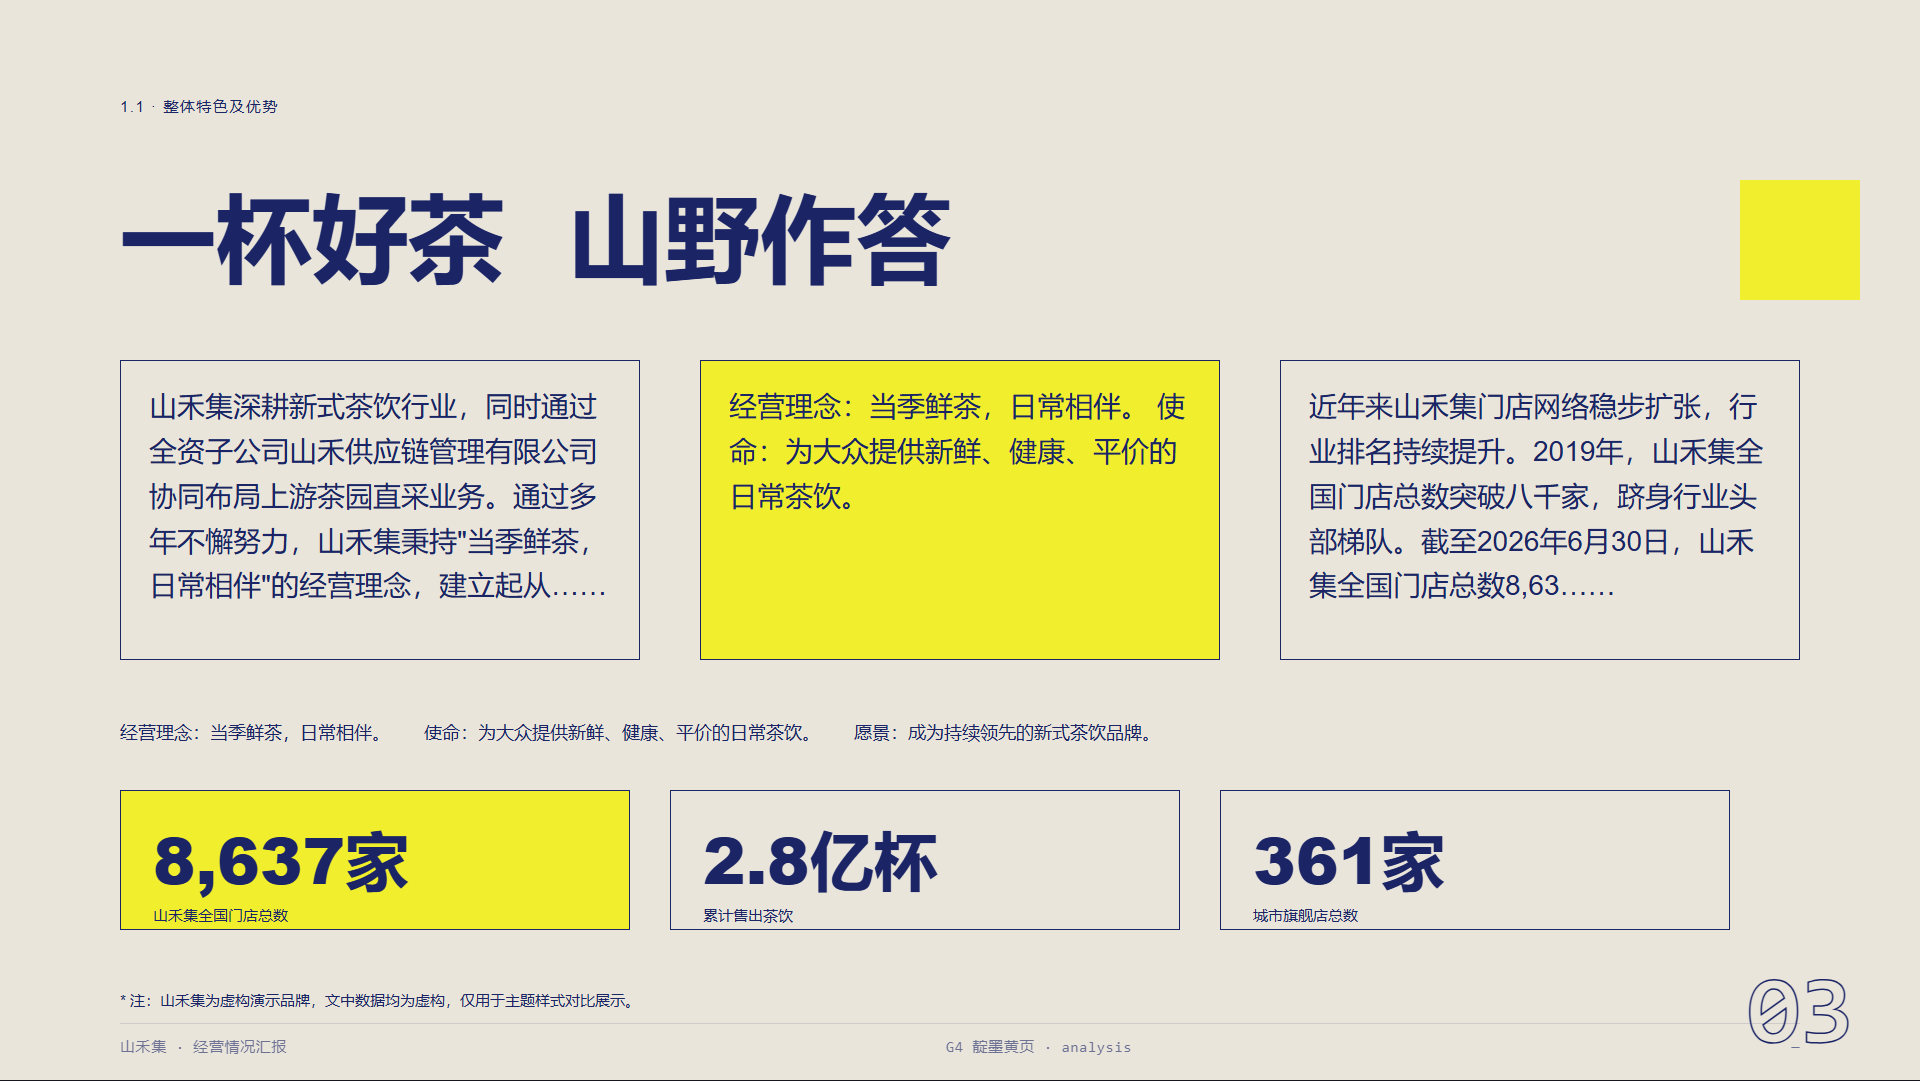
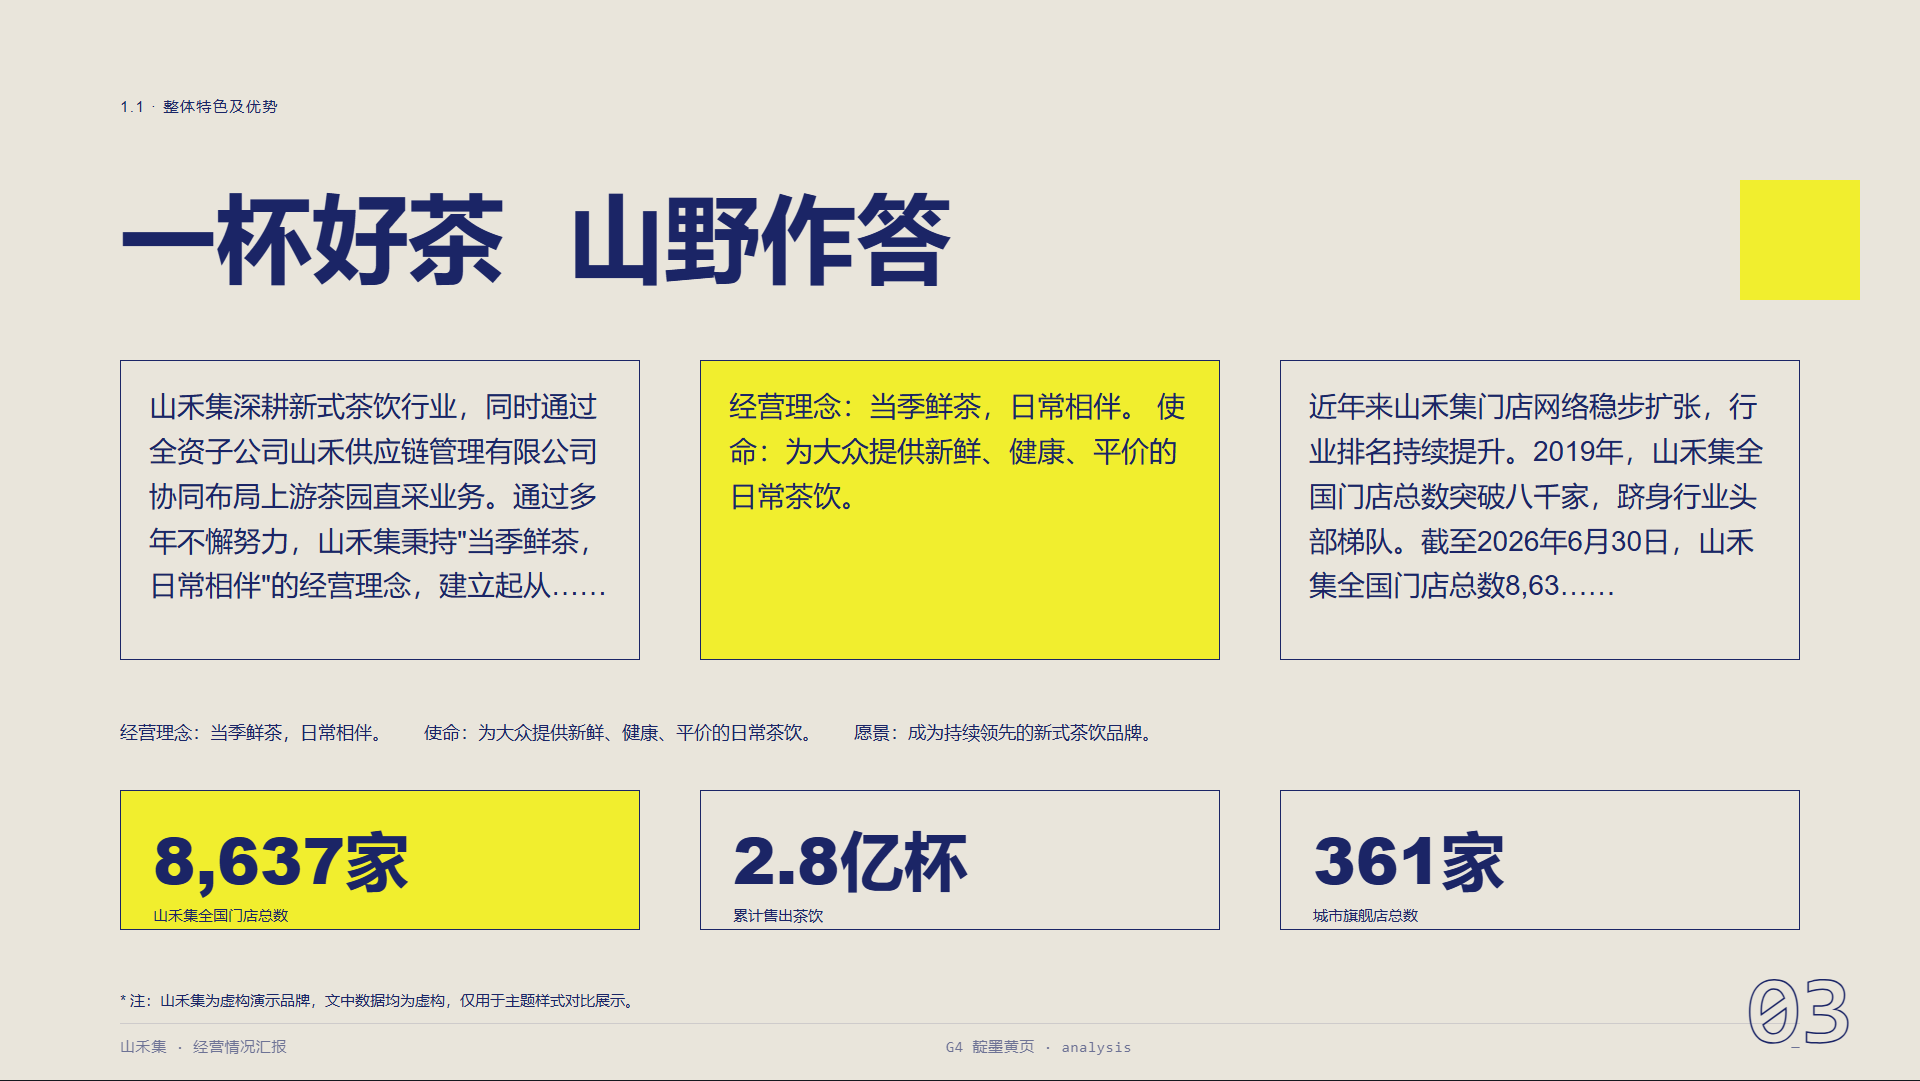
phase6-batch3: 根因修复2——页面级对齐系统4条硬规则 + build.js 配套修复
技能文档根因修复（components.md §13 新增4条页面级对齐硬规则）：
- 规则6 跨组列对齐：同页纵向同列的容器组必须共享x/w
  (G4 analysis: top blocks w=520 gap=60 vs bottom KPI w=510 gap=40 → 统一)
- 规则7 容器与线条对齐：分隔线起止点必须与邻近容器边缘精确对齐
  (G4 claim: divider w=1000 超出左侧文字列 → 收到 w=760 对齐文字列)
- 规则8 跨组垂直对齐：同水平条带内容器组共享顶部y坐标
  (G4 data: main KPI y=340 vs aux KPI y=380 → 统一 y=340)
- 规则9 文字起点对齐：同x列上容器内外文字起点对齐
  (G5 claim: body x=1020 vs KPI text x=1052 → body 起点收到 1052)

根因定位：原§13只有同组对齐(规则5)，缺跨组/页面级对齐——
组间各自为政、坐标手算，产生累积偏移。

审计结果：16页×12项=192检查全绿

Changed region(s): [[0.3125, 0.7327, 0.5, 0.8548], [0.6562, 0.7632, 0.7812, 0.8548]]

diff --git a/docs/progress/phase6-batch3/sampler.html b/docs/progress/phase6-batch3/sampler.html
@@ -104,7 +104,7 @@ html,body{background:#15181e;font-family:"PingFang SC","Noto Sans SC","Microsoft
 <div class="t-meta" style="position:absolute;left:120px;top:60px;letter-spacing:.1em">1.1 · 整体特色及优势</div>
 <div class="t-display" style="position:absolute;left:120px;top:160px;width:1680px;height:180px;font-weight:900;color:var(--accent-on);font-size:max(var(--t-display),128px);white-space:nowrap">从茶园到门店</div>
 <div class="t-body" style="position:absolute;left:120px;top:350px;width:1000px;height:80px;color:var(--accent-on)">一杯好茶的答案，写在每一片叶子的来路上。</div>
-<div style="position:absolute;left:120px;top:540px;width:1000px;height:2px;background:var(--ink);height:1.5px" data-editable-skip></div>
+<div style="position:absolute;left:120px;top:540px;width:760px;height:2px;background:var(--ink);height:1.5px" data-editable-skip></div>
 <div class="t-body" style="position:absolute;left:120px;top:570px;width:760px;height:200px">山禾集深耕新式茶饮行业，同时通过全资子公司山禾供应链管理有限公司协同布局上游茶园直采业务。通过多年不懈努力，山禾集秉持"当季鲜茶，日常相伴"的经营理念，建立起从……</div>
 <div style="position:absolute;left:1100px;top:490px;width:560px;height:170px;border:1.5px solid var(--ink);padding:28px 32px;background:var(--accent)">
         <div class="t-heading" style="font-weight:800;color:var(--accent-on)">8,637家</div>
@@ -138,15 +138,15 @@ html,body{background:#15181e;font-family:"PingFang SC","Noto Sans SC","Microsoft
         <div class="t-body">近年来山禾集门店网络稳步扩张，行业排名持续提升。2019年，山禾集全国门店总数突破八千家，跻身行业头部梯队。截至2026年6月30日，山禾集全国门店总数8,63……</div>
       </div>
 <div style="position:absolute;left:120px;top:720px;width:1080px;height:30px"><span class="t-caption" style="display:inline-block;margin-right:34px">经营理念：当季鲜茶，日常相伴。</span><span class="t-caption" style="display:inline-block;margin-right:34px">使命：为大众提供新鲜、健康、平价的日常茶饮。</span><span class="t-caption" style="display:inline-block;margin-right:34px">愿景：成为持续领先的新式茶饮品牌。</span></div>
-<div style="position:absolute;left:120px;top:790px;width:510px;height:140px;border:1.5px solid var(--ink);padding:28px 32px;background:var(--accent);color:var(--accent-on)">
+<div style="position:absolute;left:120px;top:790px;width:520px;height:140px;border:1.5px solid var(--ink);padding:28px 32px;background:var(--accent);color:var(--accent-on)">
         <div class="t-heading" style="font-weight:800">8,637家</div>
         <div class="t-meta" style="margin-top:6px">山禾集全国门店总数</div>
       </div>
-<div style="position:absolute;left:670px;top:790px;width:510px;height:140px;border:1.5px solid var(--ink);padding:28px 32px;">
+<div style="position:absolute;left:700px;top:790px;width:520px;height:140px;border:1.5px solid var(--ink);padding:28px 32px;">
         <div class="t-heading" style="font-weight:800">2.8亿杯</div>
         <div class="t-meta" style="margin-top:6px">累计售出茶饮</div>
       </div>
-<div style="position:absolute;left:1220px;top:790px;width:510px;height:140px;border:1.5px solid var(--ink);padding:28px 32px;">
+<div style="position:absolute;left:1280px;top:790px;width:520px;height:140px;border:1.5px solid var(--ink);padding:28px 32px;">
         <div class="t-heading" style="font-weight:800">361家</div>
         <div class="t-meta" style="margin-top:6px">城市旗舰店总数</div>
       </div>
@@ -166,11 +166,11 @@ html,body{background:#15181e;font-family:"PingFang SC","Noto Sans SC","Microsoft
       <div class="t-subhead" style="color:var(--accent-on);margin-top:16px;font-weight:700">山禾集全国门店总数</div>
       <div class="t-meta" style="color:var(--accent-on);margin-top:8px;opacity:.8">行业前列</div>
     </div>
-<div style="position:absolute;left:1240px;top:380px;width:560px;height:190px;border:1.5px solid var(--ink);padding:28px 32px;background:var(--paper-tint)">
+<div style="position:absolute;left:1240px;top:340px;width:560px;height:190px;border:1.5px solid var(--ink);padding:28px 32px;background:var(--paper-tint)">
         <div class="t-heading" style="font-weight:800">2.8亿杯</div>
         <div class="t-meta" style="margin-top:8px">累计售出茶饮</div>
       </div>
-<div style="position:absolute;left:1240px;top:590px;width:560px;height:190px;border:1.5px solid var(--ink);padding:28px 32px;background:var(--paper-tint)">
+<div style="position:absolute;left:1240px;top:550px;width:560px;height:190px;border:1.5px solid var(--ink);padding:28px 32px;background:var(--paper-tint)">
         <div class="t-heading" style="font-weight:800">361家</div>
         <div class="t-meta" style="margin-top:8px">城市旗舰店总数</div>
       </div>
@@ -201,7 +201,7 @@ html,body{background:#15181e;font-family:"PingFang SC","Noto Sans SC","Microsoft
 <span class="mt-tri-tag" style="position:absolute;left:120px;top:80px" data-editable-skip>VOL.07 / NO.128</span>
 <div class="t-display" style="position:absolute;left:120px;top:220px;width:760px;height:180px;font-weight:700;color:var(--accent);font-size:max(var(--t-display),112px);white-space:nowrap">从茶园到门店</div>
 <div class="t-body" style="position:absolute;left:120px;top:420px;width:760px;height:120px;color:var(--accent);opacity:.9">一杯好茶的答案，写在每一片叶子的来路上。</div>
-<div class="t-body" style="position:absolute;left:1020px;top:220px;width:760px;height:200px;color:var(--ink)">山禾集深耕新式茶饮行业，同时通过全资子公司山禾供应链管理有限公司协同布局上游茶园直采业务。通过多年不懈努力，山禾集秉持"当季鲜茶，日常相伴"的经营理念，建立起从茶园到门店的全链路品控流程，持续为消费者……</div>
+<div class="t-body" style="position:absolute;left:1052px;top:220px;width:728px;height:200px;color:var(--ink)">山禾集深耕新式茶饮行业，同时通过全资子公司山禾供应链管理有限公司协同布局上游茶园直采业务。通过多年不懈努力，山禾集秉持"当季鲜茶，日常相伴"的经营理念，建立起从茶园到门店的全链路品控流程，持续为消费者……</div>
 <div style="position:absolute;left:1020px;top:420px;width:760px;height:170px;background:var(--paper);color:var(--ink);padding:28px 32px">
         <div class="t-heading" style="font-weight:600">8,637家</div>
         <div class="t-meta" style="margin-top:6px">山禾集全国门店总数</div>

diff --git a/docs/progress/phase6-batch3/build.js b/docs/progress/phase6-batch3/build.js
@@ -129,9 +129,11 @@ function G4(role) {
     h.push(`<div class="t-display" style="${pos(M, 160, CW, 180)};font-weight:900;color:var(--accent-on);font-size:max(var(--t-display),128px);white-space:nowrap">${esc(D.claim)}</div>`);
     h.push(`<div class="t-body" style="${pos(M, 350, 1000, 80)};color:var(--accent-on)">${esc(D.claimNote)}</div>`);
     // 下半：纸底上的说明 + KPI
-    h.push(`<div style="${pos(M, 540, 1000, 2)};background:var(--ink);height:1.5px" data-editable-skip></div>`);
+    // 分隔线与左侧文字列对齐（x=M, w=760 → r=880），不延伸到右侧 KPI 区域（规则7）
+    h.push(`<div style="${pos(M, 540, 760, 2)};background:var(--ink);height:1.5px" data-editable-skip></div>`);
     h.push(`<div class="t-body" style="${pos(M, 570, 760, 200)}">${esc(D.p1.slice(0, 80))}……</div>`);
     // KPI：靛蓝线框纵向排列（padding ≥28px for heading 档，容器高度需容纳 heading+meta）
+    // KPI 容器左边缘 = 1100，是独立右列，不与左侧文字列共享 x（规则9 例外：不同列）
     D.kpis.forEach((k, i) => {
       const y = 490 + i * 175;
       const isFocus = i === 0;
@@ -148,10 +150,12 @@ function G4(role) {
     h.push(`<div class="t-display" style="${pos(M, 180, CW, 140)};font-weight:900;white-space:nowrap">${ttl}</div>`);
     h.push(wedge(1740, 180, 120, 120));
     // 3 个靛蓝线框分区，至多一个黄面焦点
+    // 列参数统一：col_w=520, col_gap=60（规则6：同页跨组列对齐）
+    const CW4 = 520, CG4 = 60;
     const blocks = [
-      { x: M, y: 360, w: 520, h: 300, focus: false, text: D.p1.slice(0, 80) + '……' },
-      { x: 700, y: 360, w: 520, h: 300, focus: true, text: D.creed[0] + ' ' + D.creed[1] },
-      { x: 1280, y: 360, w: 520, h: 300, focus: false, text: D.p2.slice(0, 80) + '……' }
+      { x: M, y: 360, w: CW4, h: 300, focus: false, text: D.p1.slice(0, 80) + '……' },
+      { x: M + CW4 + CG4, y: 360, w: CW4, h: 300, focus: true, text: D.creed[0] + ' ' + D.creed[1] },
+      { x: M + 2 * (CW4 + CG4), y: 360, w: CW4, h: 300, focus: false, text: D.p2.slice(0, 80) + '……' }
     ];
     blocks.forEach(b => {
       h.push(`<div style="${pos(b.x, b.y, b.w, b.h)};border:1.5px solid var(--ink);padding:24px 28px;${b.focus ? 'background:var(--accent);color:var(--accent-on)' : 'background:var(--paper)'}">
@@ -160,10 +164,10 @@ function G4(role) {
     });
     // 底部 creed 行
     h.push(`<div style="${pos(M, 720, 1080, 30)}">${D.creed.map(c => `<span class="t-caption" style="display:inline-block;margin-right:34px">${esc(c)}</span>`).join('')}</div>`);
-    // 底部 KPI 行：靛蓝线框（padding ≥28px for heading 档）
+    // 底部 KPI 行：靛蓝线框（与顶部 blocks 共享列参数 — 规则6 跨组列对齐）
     D.kpis.forEach((k, i) => {
-      const x = M + i * 550;
-      h.push(`<div style="${pos(x, 790, 510, 140)};border:1.5px solid var(--ink);padding:28px 32px;${i === 0 ? 'background:var(--accent);color:var(--accent-on)' : ''}">
+      const x = M + i * (CW4 + CG4);
+      h.push(`<div style="${pos(x, 790, CW4, 140)};border:1.5px solid var(--ink);padding:28px 32px;${i === 0 ? 'background:var(--accent);color:var(--accent-on)' : ''}">
         <div class="t-heading" style="font-weight:800">${esc(k.num)}</div>
         <div class="t-meta" style="margin-top:6px">${esc(k.cap)}</div>
       </div>`);
@@ -183,8 +187,9 @@ function G4(role) {
       <div class="t-meta" style="color:var(--accent-on);margin-top:8px;opacity:.8">${esc(D.kpis[0].tag)}</div>
     </div>`);
     // 辅助 KPI：靛蓝线框纵向（padding ≥28px for heading 档）
+    // 顶部与主 KPI 对齐（规则8：同水平条带跨组垂直对齐，y=340）
     D.kpis.slice(1).forEach((k, i) => {
-      const y = 380 + i * 210;
+      const y = 340 + i * 210;
       h.push(`<div style="${pos(1240, y, 560, 190)};border:1.5px solid var(--ink);padding:28px 32px;background:var(--paper-tint)">
         <div class="t-heading" style="font-weight:800">${esc(k.num)}</div>
         <div class="t-meta" style="margin-top:8px">${esc(k.cap)}</div>
@@ -232,7 +237,9 @@ function G5(role) {
     h.push(`<div class="t-display" style="${pos(M, 220, 760, 180)};font-weight:700;color:var(--accent);font-size:max(var(--t-display),112px);white-space:nowrap">${esc(D.claim)}</div>`);
     h.push(`<div class="t-body" style="${pos(M, 420, 760, 120)};color:var(--accent);opacity:.9">${esc(D.claimNote)}</div>`);
     // 右侧：苔绿底暗夜蓝字——说明 + KPI
-    h.push(`<div class="t-body" style="${pos(1020, 220, 760, 200)};color:var(--ink)">${esc(D.p1.slice(0, 100))}……</div>`);
+    // 文字起点与 KPI 容器内文字起点对齐（规则9：同列文字起点对齐）
+    // KPI 容器 x=1020 + padding-left 32 = 文字起点 1052；右侧 body 也从 1052 起
+    h.push(`<div class="t-body" style="${pos(1052, 220, 728, 200)};color:var(--ink)">${esc(D.p1.slice(0, 100))}……</div>`);
     // KPI 容器（heading 档 padding ≥ 28px，容器高度需容纳 heading+meta）
     D.kpis.forEach((k, i) => {
       const y = 420 + i * 175;
@@ -248,10 +255,12 @@ function G5(role) {
     h.push(`<div class="t-display" style="${pos(M, 180, CW, 140)};font-weight:700;white-space:nowrap">${ttl}</div>`);
     h.push(tag(1500, 96, 'NO.128'));
     // 3 块三色反转面（赭石底/苔绿底/暗夜蓝底 轮转）
+    // 列参数统一：col_w=520, col_gap=60（规则6：同页跨组列对齐）
+    const CW5 = 520, CG5 = 60;
     const blocks = [
-      { x: M, y: 360, w: 520, h: 320, bg: 'var(--paper)', fg: 'var(--ink)', text: D.p1.slice(0, 80) + '……' },
-      { x: 700, y: 360, w: 520, h: 320, bg: 'var(--accent)', fg: 'var(--ink)', text: D.creed[0] + ' ' + D.creed[1] },
-      { x: 1280, y: 360, w: 520, h: 320, bg: 'var(--ink)', fg: 'var(--accent)', text: D.p2.slice(0, 80) + '……' }
+      { x: M, y: 360, w: CW5, h: 320, bg: 'var(--paper)', fg: 'var(--ink)', text: D.p1.slice(0, 80) + '……' },
+      { x: M + CW5 + CG5, y: 360, w: CW5, h: 320, bg: 'var(--accent)', fg: 'var(--ink)', text: D.creed[0] + ' ' + D.creed[1] },
+      { x: M + 2 * (CW5 + CG5), y: 360, w: CW5, h: 320, bg: 'var(--ink)', fg: 'var(--accent)', text: D.p2.slice(0, 80) + '……' }
     ];
     blocks.forEach(b => {
       h.push(`<div style="${pos(b.x, b.y, b.w, b.h)};background:${b.bg};color:${b.fg};padding:24px 28px">

diff --git a/skills/SlideForge/references/components.md b/skills/SlideForge/references/components.md
@@ -363,6 +363,33 @@ card 皮肤与一切底色块容器（Callout 底、标注旗标底、KPI 塔身
    - **内边距一致**：同组容器的 padding 必须一致（§12 硬规则 9 的同组投影），确保文字起始位置对齐。
    - 例外：主题 G10 `signature_operator` 显式声明了错落/阶梯作为签名手段时，基线可以不齐——但错落规则每页一致，不是随机偏移。
 
+**页面级对齐系统**（K2 期实测补入 · 硬规则）：
+
+同组一致性（上面 1–5 条）管的是**一个容器组内部**的秩序。但一页内通常有**多个容器组**（如标题块 + 正文块 + KPI 排 + 脚注行）——组间若各自为政、坐标手算，必然产生累积偏移。以下四条管的是**跨组的页面级对齐**：
+
+6. **跨组列对齐【硬规则】**：同一页内**纵向同列**的容器组必须共享相同的 x 坐标和宽度。具体而言：如果 A 区有 3 个并列容器落在 x₁/w₁/x₂/w₂/x₃/w₃，B 区（在 A 区下方或上方）也有 3 个并列容器，则 B 区容器的 x 和 w 必须与 A 区一致——**同一页面的"列"是全局的，不是每个组各自定义的**。
+   - 实现方式：用 CSS 自定义属性在页面级定义列参数（`--col-w`、`--col-gap`），所有容器组引用同一组参数；或用同一个 CSS grid/flex 模板嵌套。
+   - 禁止：A 组用 `width:520px;gap:60px`、B 组用 `width:510px;gap:40px`——10px 宽差 + 20px 间距差在视觉上就是"歪了"。
+   - 例外：主题 G10 `signature_operator` 显式声明了不同区域的列参数差异作为构图手段时，差异必须是有规律的（如等差递减），不是随意的。
+
+7. **容器与线条对齐【硬规则】**：页面内的水平/垂直分隔线、hairline、色带等线性元素，其起止点必须与邻近容器的边缘**精确对齐**：
+   - 水平线的左端 = 其上方/下方容器的左边缘（或页面 margin），右端 = 容器的右边缘——**线不超出容器范围，也不短于容器范围**（除非线的功能是"渐隐引出"，此时以 `.rl-fade` 语法声明）。
+   - 垂直线的顶/底端 = 其左侧/右侧容器的顶/底边缘。
+   - 禁止：线的一端与容器对齐、另一端悬空或超出——"差一点"在视觉上就是"没对齐"。
+   - 线的宽度（水平线 = height，垂直线 = width）不影响此规则——只管起止坐标。
+
+8. **跨组垂直对齐【硬规则】**：同一水平条带内的容器组（如左大块 + 右小块并列）应共享相同的**顶部 y 坐标**。具体而言：
+   - 如果 A 容器（大）和 B 容器（小）在同一水平条带并排，A.top 和 B.top 必须相同——**顶部对齐是默认的视觉期望**（读者预期同一行的东西从同一条线开始）。
+   - 如果 B 比 A 矮，B 的垂直位置用 `align-self:flex-start`（flex 容器内）或相同 y 坐标实现，不用逐个手算。
+   - 禁止：A 在 y=340、B 在 y=380——40px 的偏移在视觉上就是"一高一低"。
+   - 例外：主题 G10 `signature_operator` 显式声明了垂直错落作为签名手段（如 E5 沿对角线阶梯），此时错落是构图程序的一部分。
+
+9. **文字起点对齐【硬规则】**：同一 x 列上的文字（无论是否在容器内），其**文字左边缘**应尽可能对齐。具体而言：
+   - 如果 A 是容器外文字（x=120）且 B 是同列容器内文字（容器 x=120, padding-left=32），则 B 的文字实际起点 = 152px——与 A 的 120px **差 32px**，视觉上"缩进了一截"。
+   - 合法做法：让容器外文字也缩进到与容器内文字起点对齐（x=152），或让容器 padding-left=0 + 左 border 作为视觉边界（文字起点 = 容器 x = 120）。
+   - 禁止：同一 x 列上，容器外文字和容器内文字的起点相差超过 padding 值的一半——读者会感知到"文字没对齐"。
+   - 例外：容器内文字有明确的缩进语义（如嵌套层级、引用块缩进）时，缩进是语义结构不是对齐失误。
+
 ---
 
 ## 14. 装饰线与装饰元素（通用语法层 · v7.2 / K 期深化）
